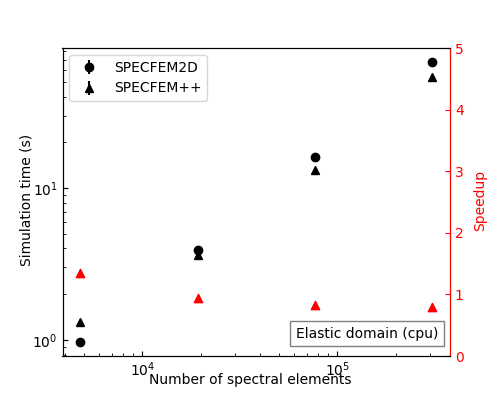
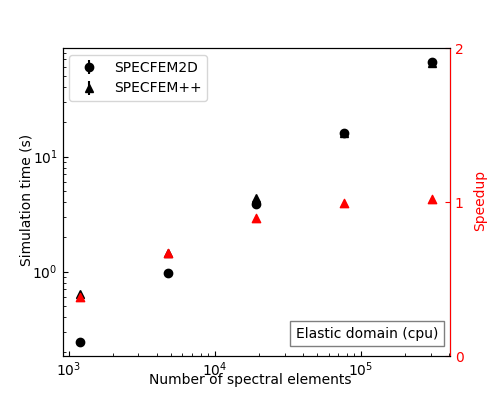
v0.4.0 release performance

diff --git a/scripts/plot.py b/scripts/plot.py
@@ -59,7 +59,7 @@ def plot_benchmark(ax, baseline, current, label):
     ax2 = ax.twinx()
 
     # plot the speedup
-    speedup = current["solver_time_mean"] / baseline["solver_time_mean"]
+    speedup = baseline["solver_time_mean"] / current["solver_time_mean"]
     ax2.scatter(
         baseline["nxmax"] * baseline["nzmax"],
         speedup,
@@ -79,12 +79,15 @@ def plot_benchmark(ax, baseline, current, label):
     # ax2.set_ylabel("Speedup", color="red")
     ax2.set_yscale("linear")
     ax2.spines["right"].set_color("red")
+    # specify ax2 tick locations
+    ax2.set_yticks([0, 1, 2])
     # set y-axis limits
-    ax2.set_ylim([0, 5])
+    ax2.set_ylim([0, 2])
 
     # ticks inside the plot
     ax.tick_params(which="both", direction="in")
     ax2.tick_params(which="both", direction="in", colors="red")
+
     ax.legend()
     ## put label on the bottom right corner
     ## wrap the label in a white box

diff --git a/forward_simulations/README.md b/forward_simulations/README.md
@@ -1,3 +1,24 @@
 # Forward simulation benchmarks
 
-![2D forward simulations](./results.png)
+Below curves show the performance of the SPECFEM++ compared to SPECFEM2D when runnning forward simulations. 
+
+## Elastic Simulation
+
+<p align="center">
+    <img src="results-benchmark_1-cpu.png" alt="CPU Benchmark" width="45%">
+    <img src="results-benchmark_1-gpu.png" alt="GPU Benchmark" width="45%">
+</p>
+
+## Acoustic Simulation
+
+<p align="center">
+    <img src="results-benchmark_2-cpu.png" alt="CPU Benchmark" width="45%">
+    <img src="results-benchmark_2-gpu.png" alt="GPU Benchmark" width="45%">
+</p>
+
+## Elastic-Acoustic Coupled Simulation
+
+<p align="center">
+    <img src="results-benchmark_3-cpu.png" alt="CPU Benchmark" width="45%">
+    <img src="results-benchmark_3-gpu.png" alt="GPU Benchmark" width="45%">
+</p>
